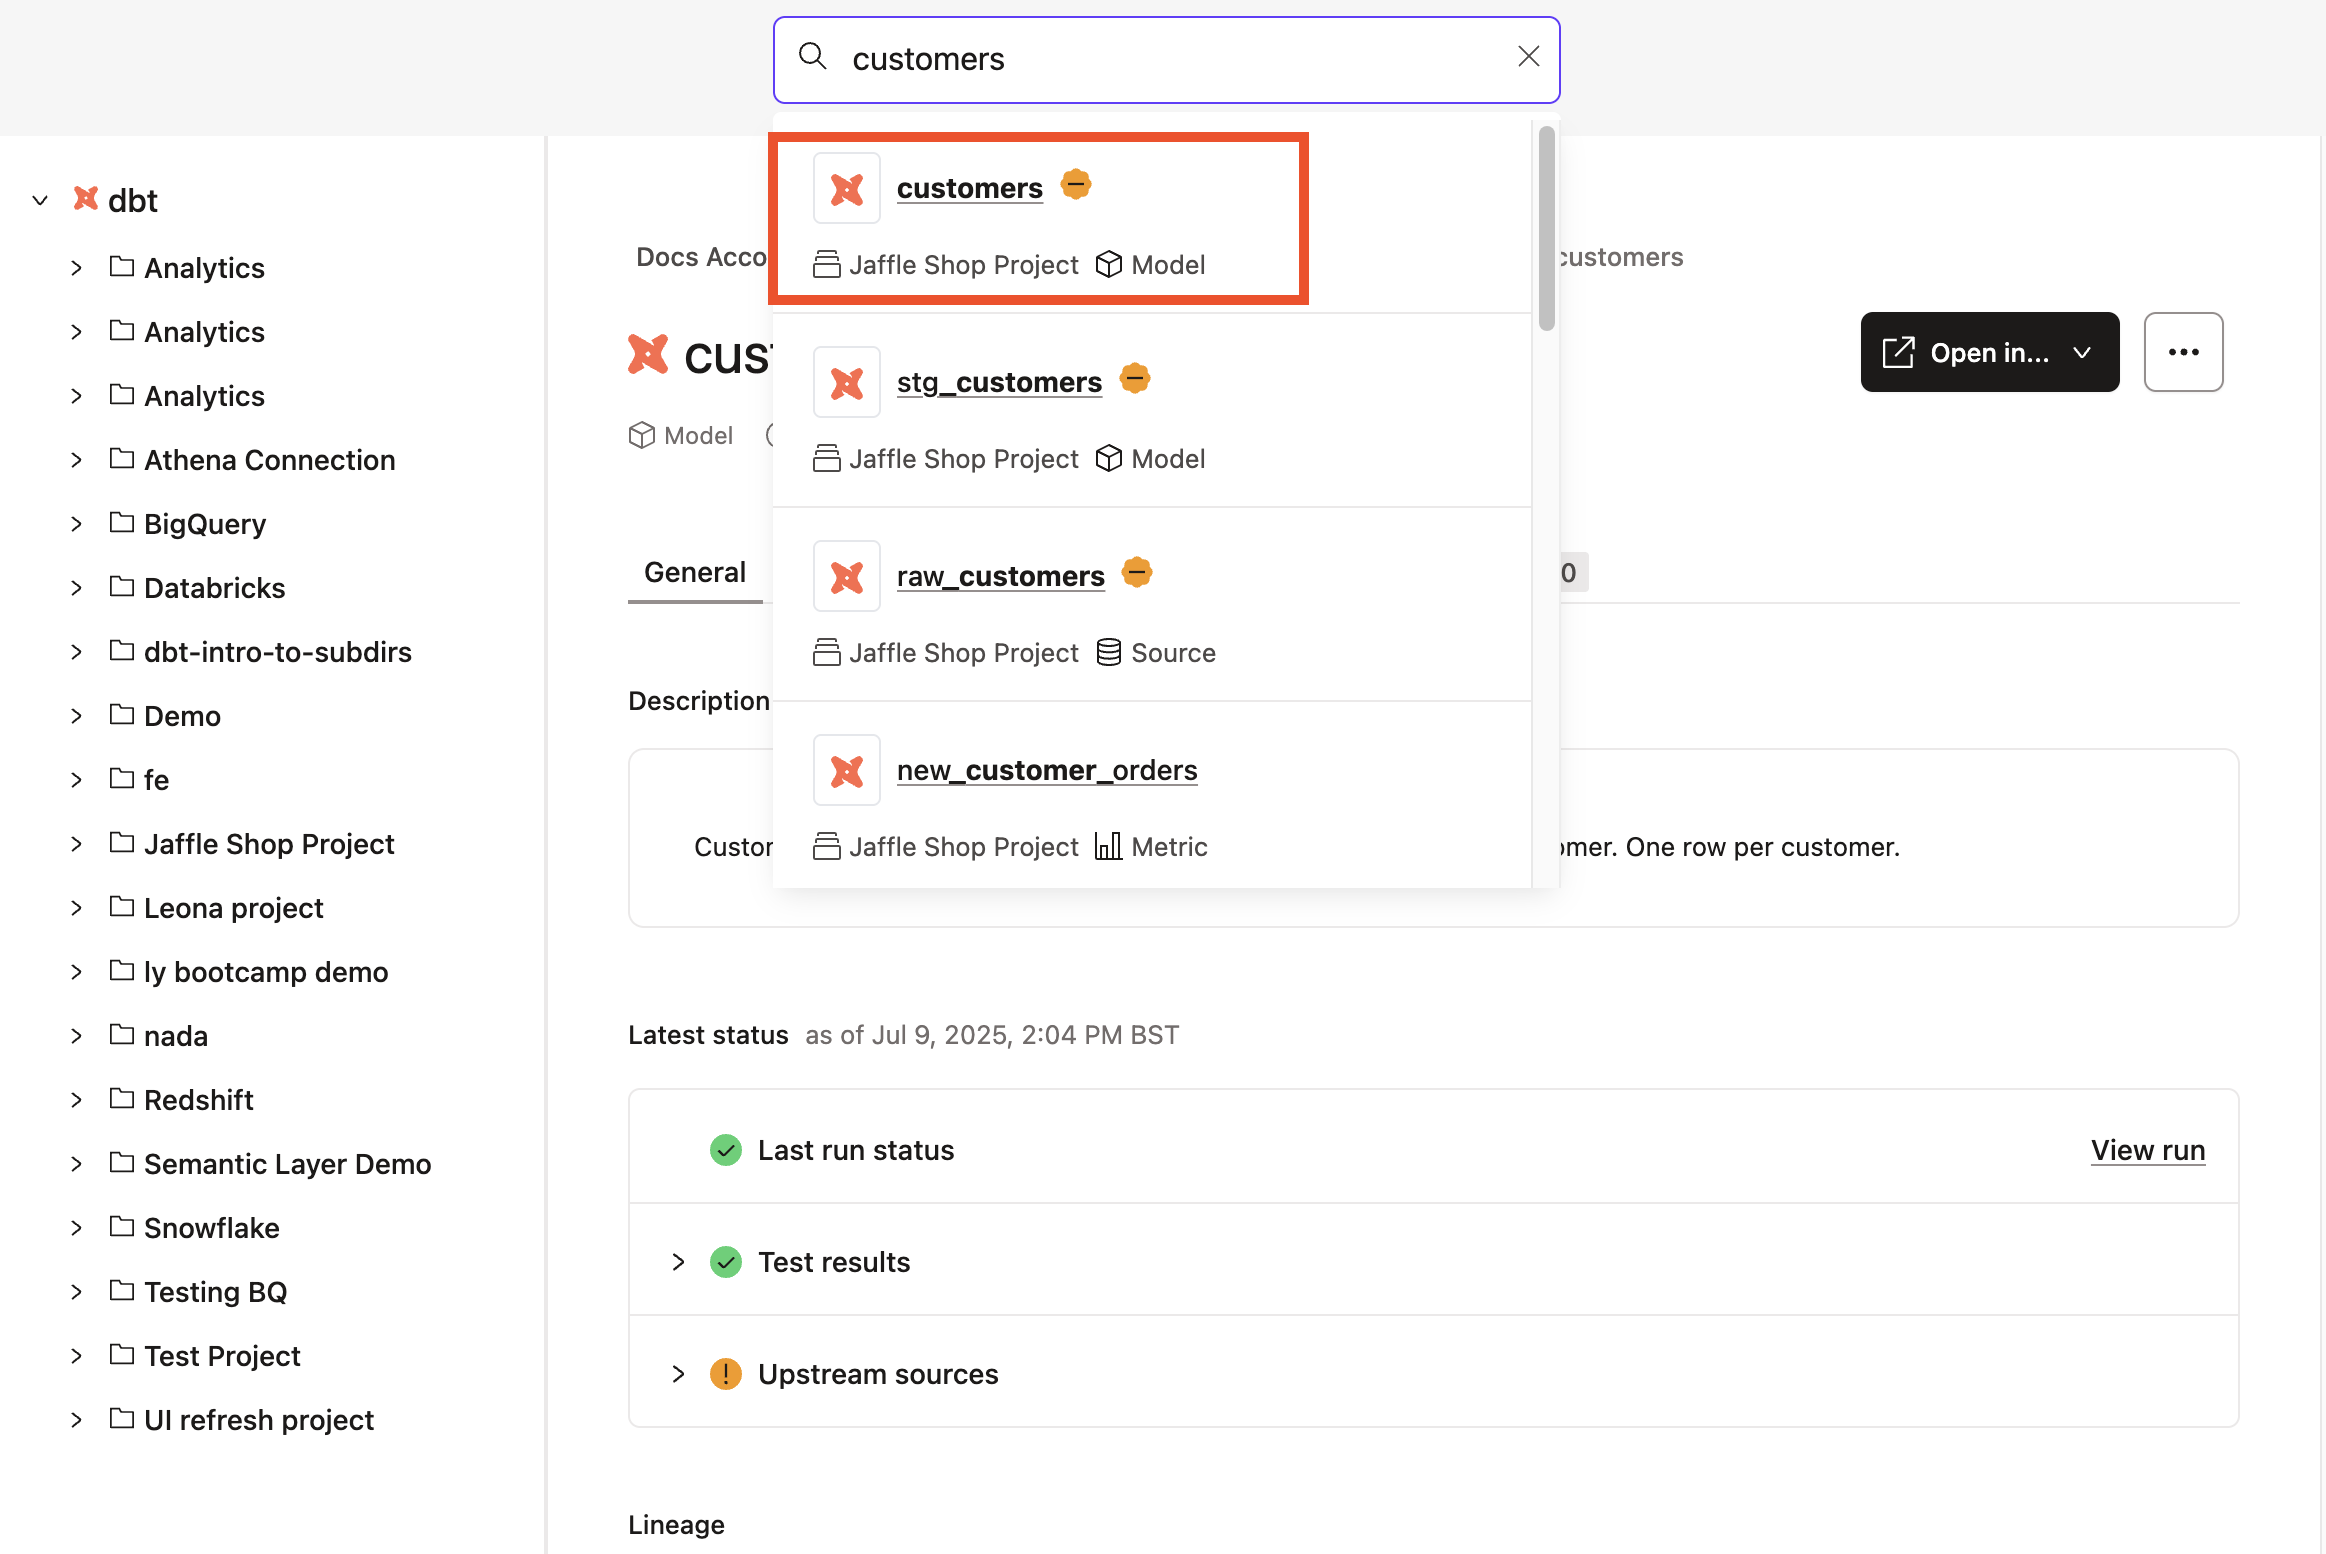
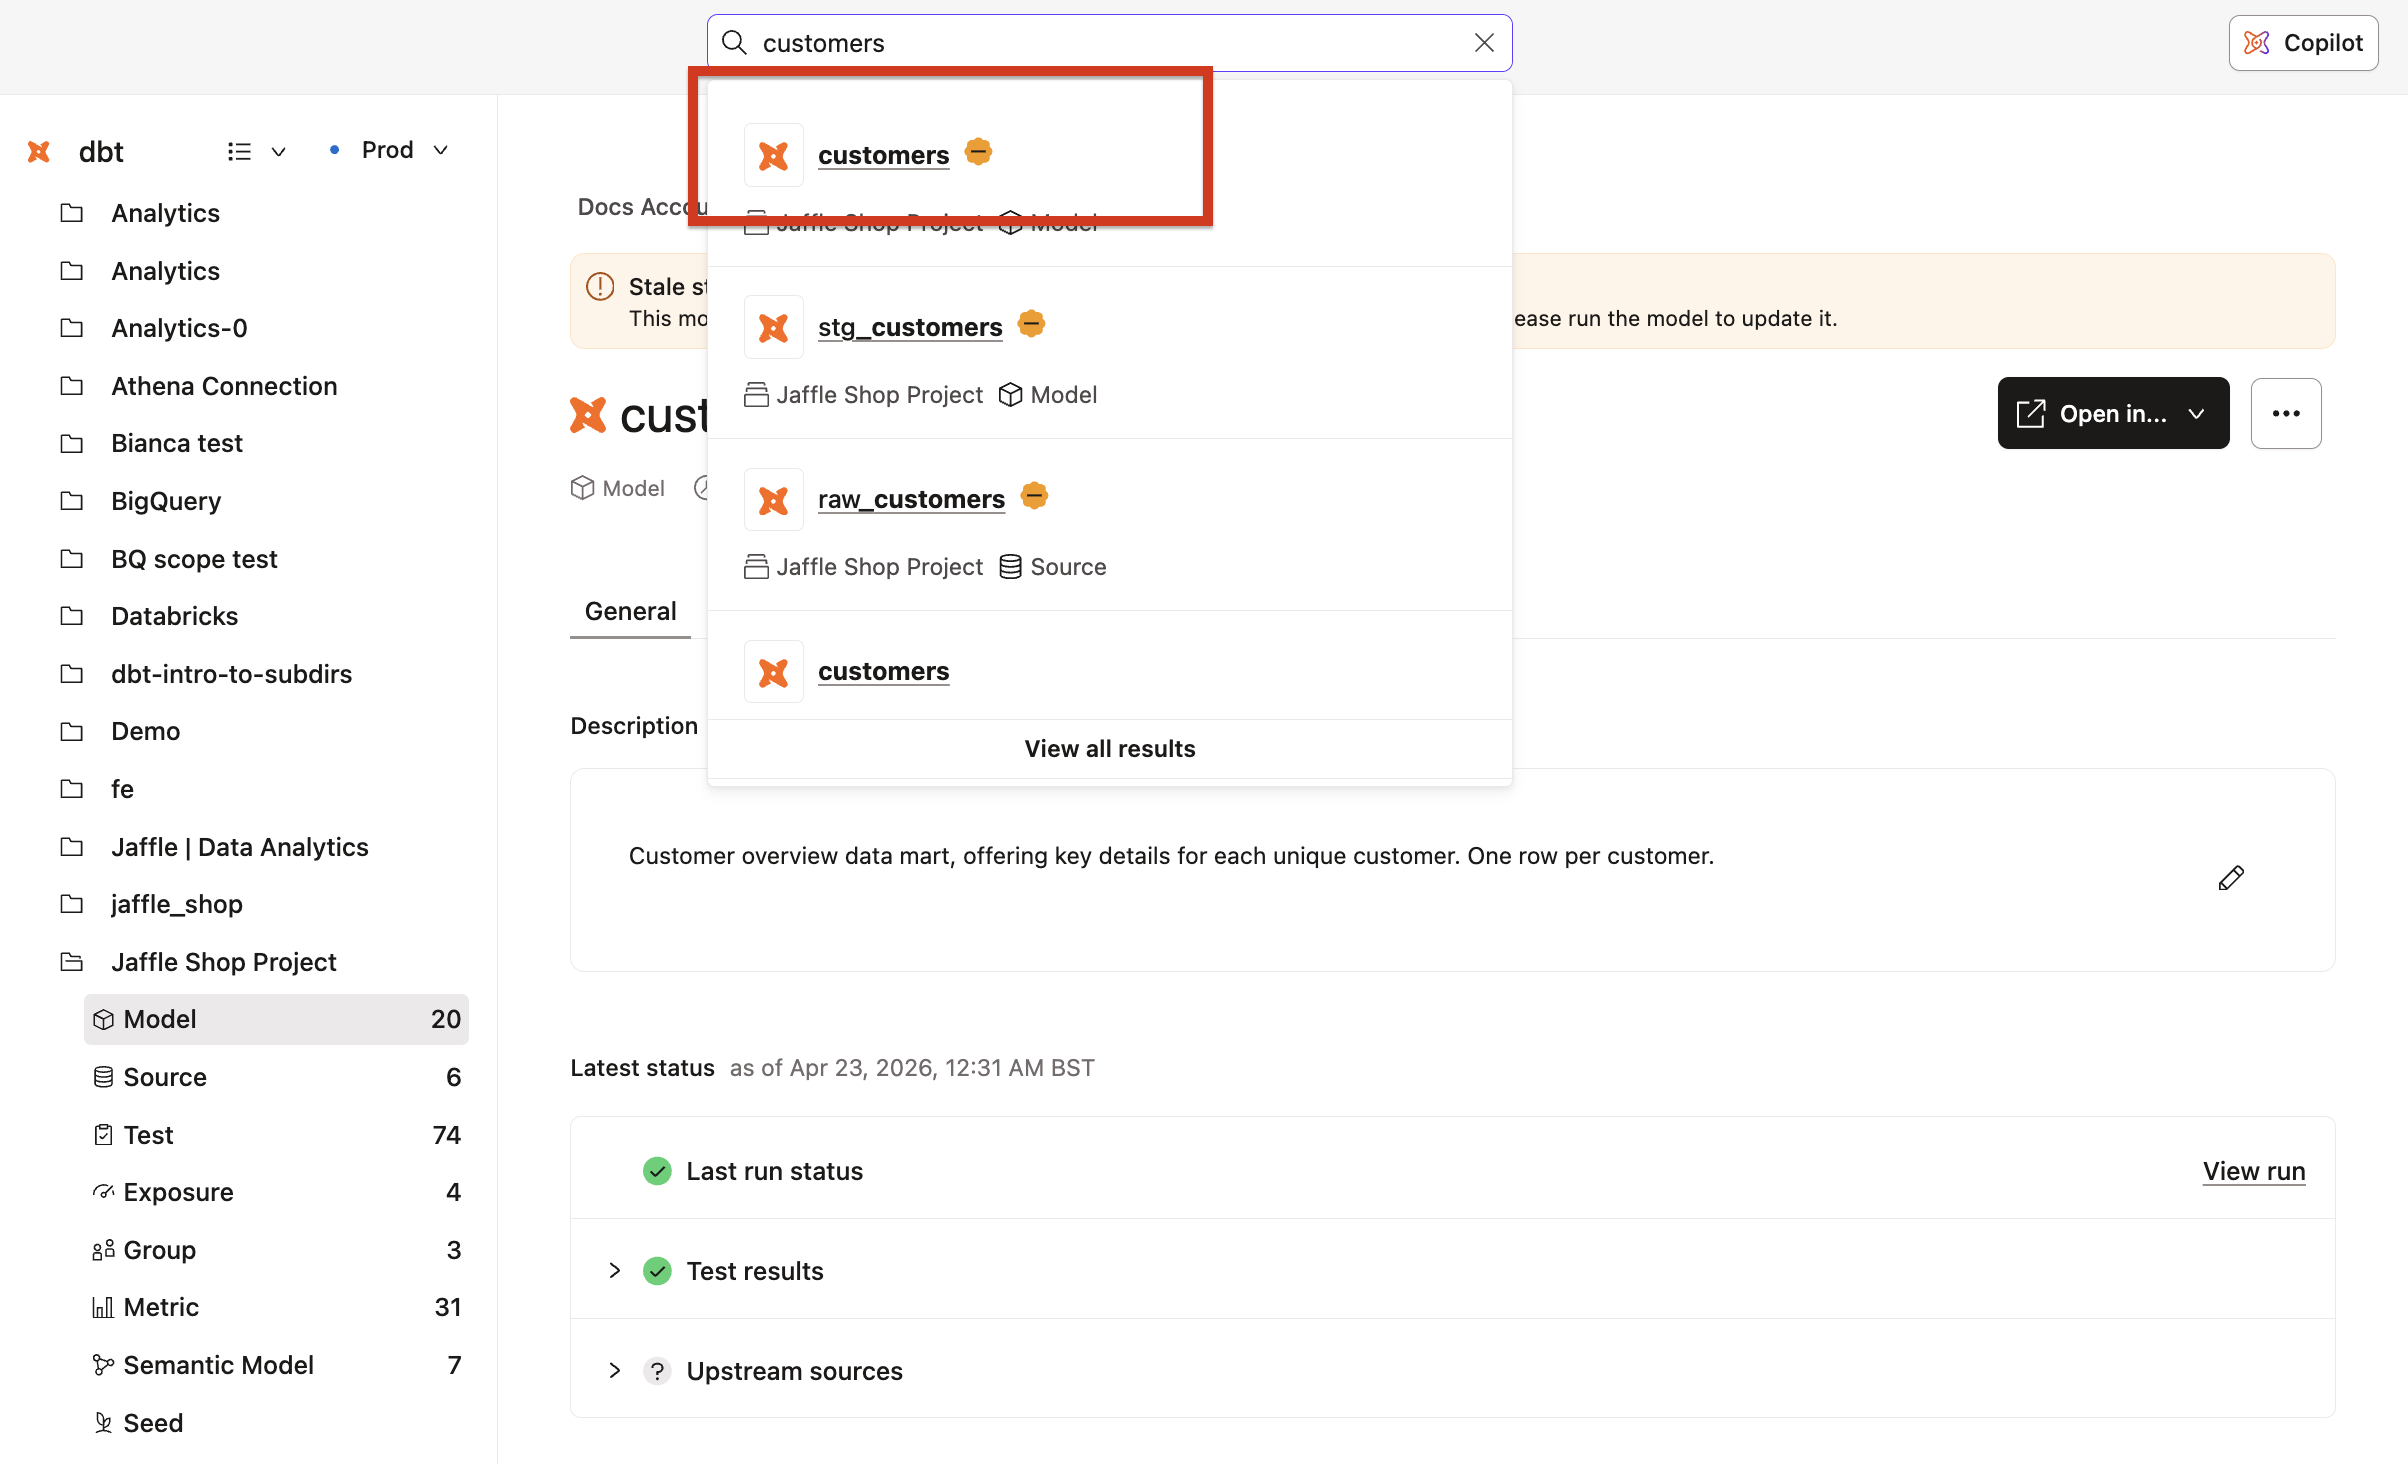
Analyze your data in dbt

diff --git a/website/docs/guides/analyze-data-qs.md b/website/docs/guides/analyze-data-qs.md
@@ -63,7 +63,13 @@ But first, she decides to interact with the data to learn more.
 
 From the **Customer model page** in <Constant name="catalog" />, Kimiko selects **Analyze data** from the **Open in...** dropdown. This enables her to query data for the Customer model. Once opened, <Constant name="insights" /> contains a query poised and ready to run.
 
-<Lightbox src="/img/guides/analyst-qs/query.png" width="90%" title="Open query" />
+<DocCarousel slidesPerView={1}>
+
+<Lightbox src="/img/guides/analyst-qs/catalog-analyze-data.png" width="50%" title="Select Analyze data from Catalog" />
+
+<Lightbox src="/img/guides/analyst-qs/query.png" width="90%" title="Open query in Insights" />
+
+</DocCarousel>
 
 When Kimiko runs the query, she can look at the data underyling it. The same context she saw in <Constant name="catalog" /> she now sees in her SQL editing experience.
 
